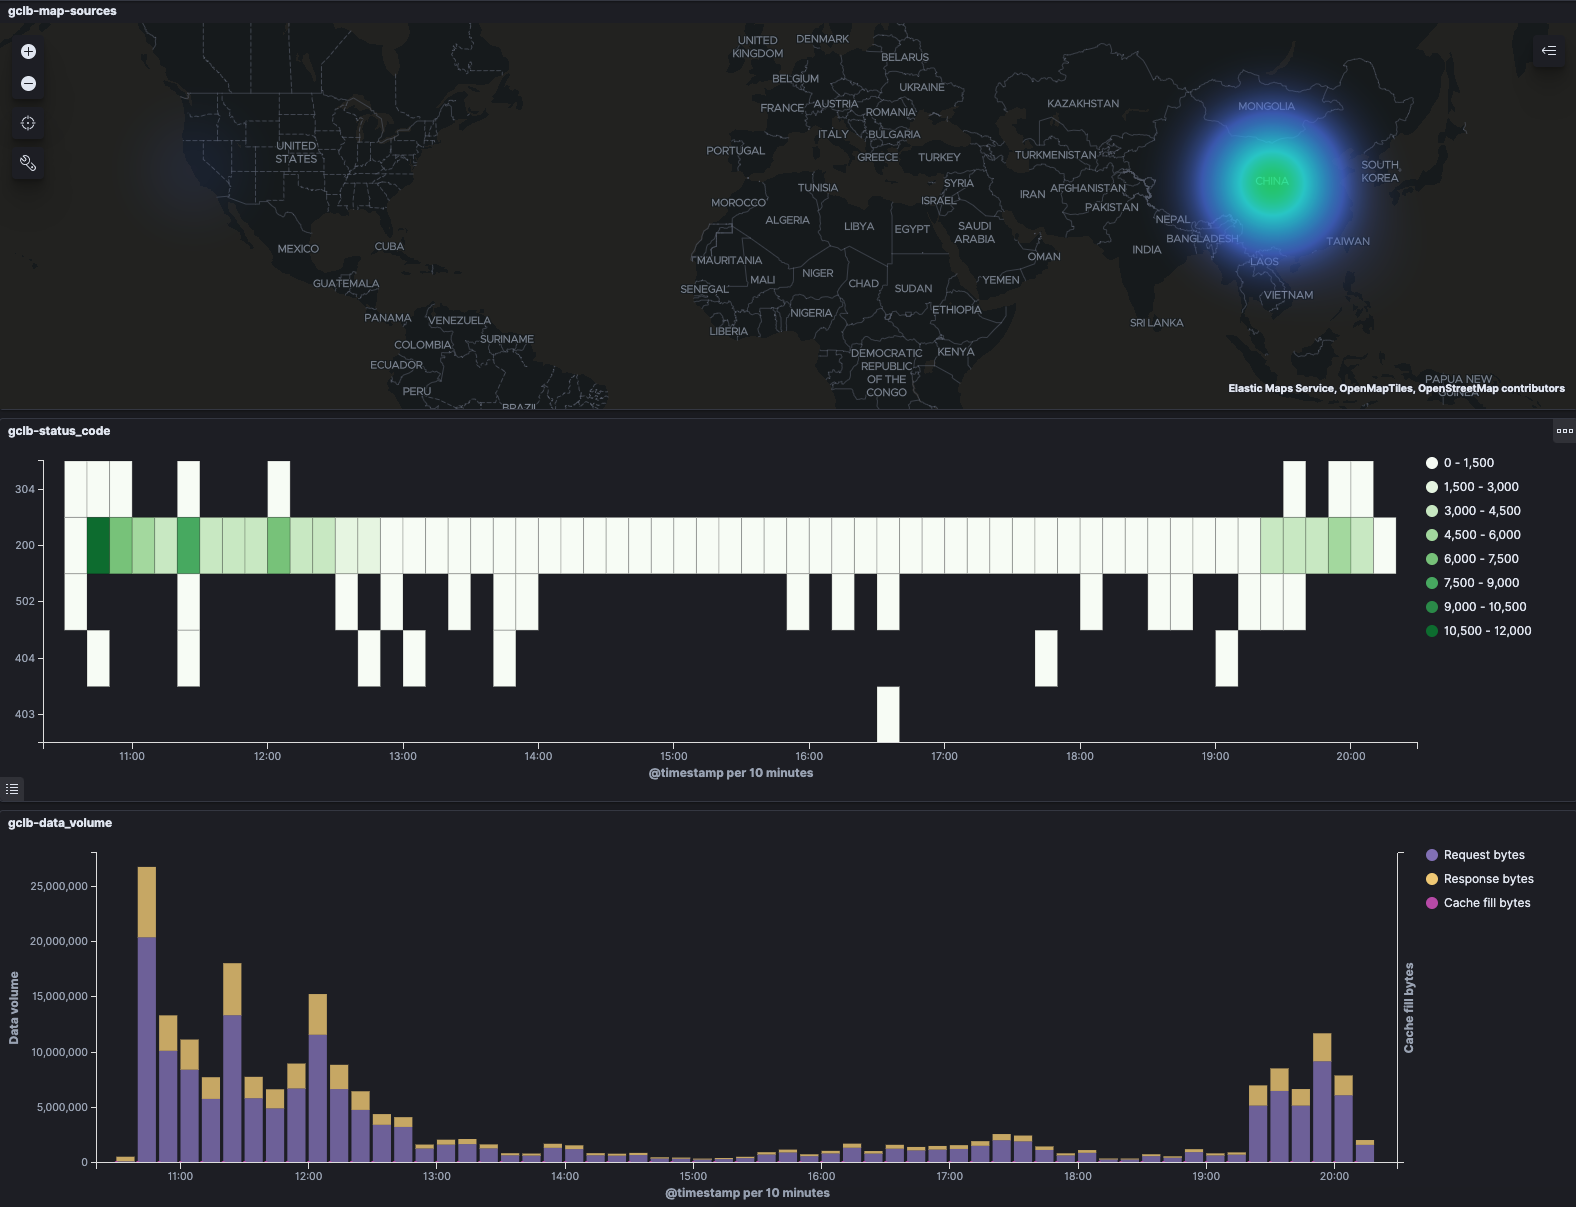
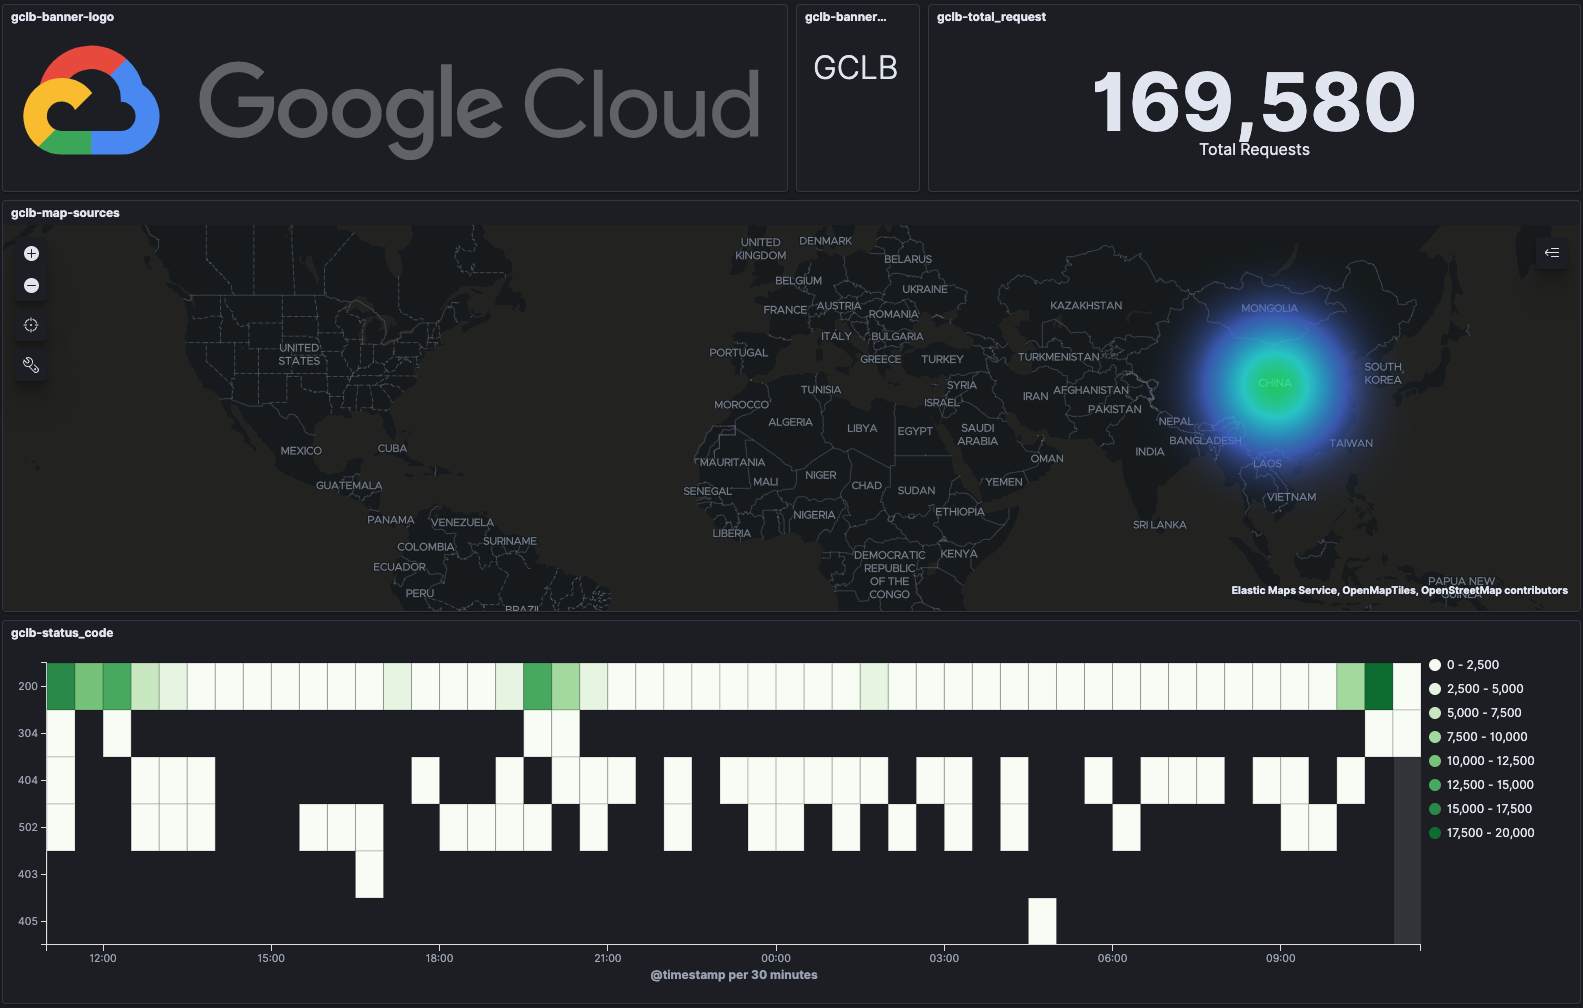
updated dashboard screenshots

diff --git a/readme.md b/readme.md
@@ -68,3 +68,5 @@ You could have much more beyond the below examples in Kibana
 ![](https://raw.githubusercontent.com/cloudymoma/raycom/gcp-lb-log/miscs/gclb-dash1.png)
 
 ![](https://raw.githubusercontent.com/cloudymoma/raycom/gcp-lb-log/miscs/gclb-dash2.png)
+
+![](https://raw.githubusercontent.com/cloudymoma/raycom/gcp-lb-log/miscs/gclb-dash3.png)
